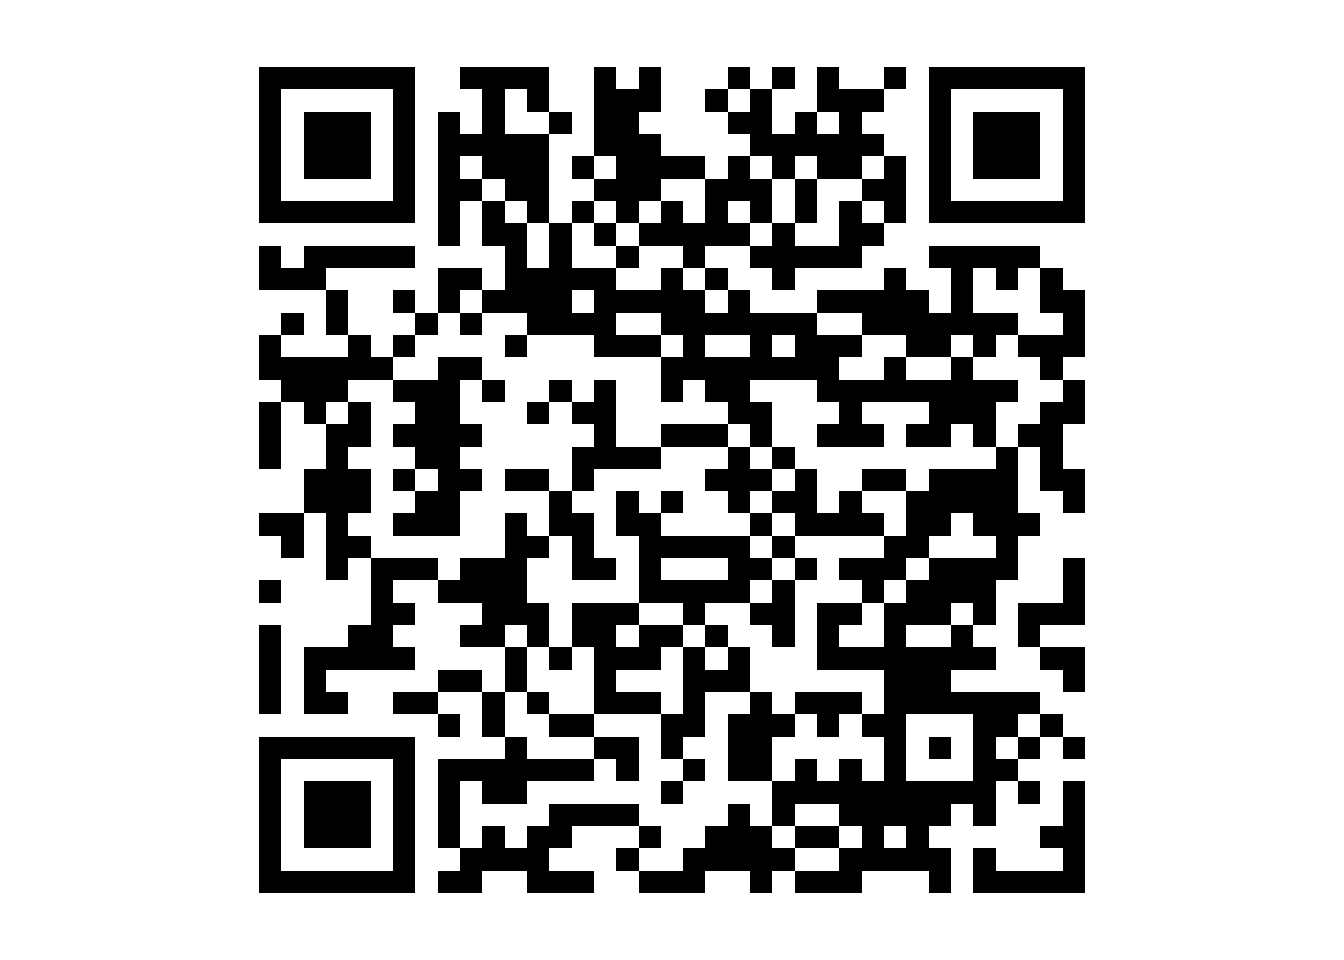
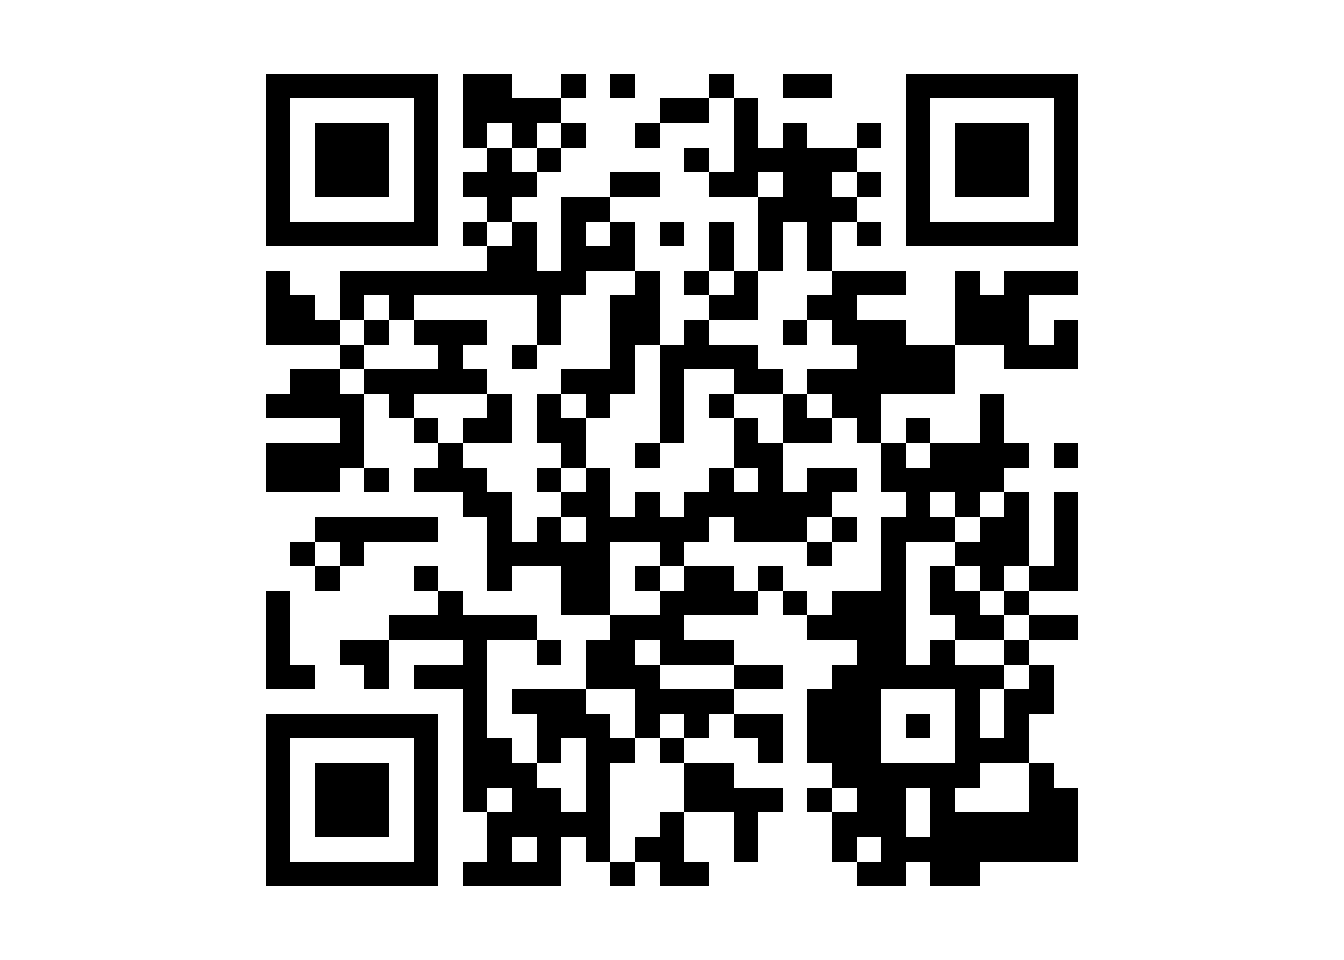
update blog qrcode

Changed region(s): [[0.1875, 0.0625, 0.8125, 0.9375]]

diff --git a/blog/2024-05-r-emacs/index.html b/blog/2024-05-r-emacs/index.html
@@ -9,7 +9,7 @@
 <meta http-equiv="X-UA-Compatible" content="IE=edge,chrome=1">
 <meta name="viewport" content="width=device-width, initial-scale=1, shrink-to-fit=no">
 <meta name="generator" content="Hugo 0.130.0">
-<title>R no Emacs | Maurício Vancine</title>
+<title>Positron | Maurício Vancine</title>
 
 
 <meta property="twitter:site" content="@mauriciovancine">
@@ -24,12 +24,12 @@
   
     
   
-<meta name="description" content="Configuração e uso do R no Emacs">
+<meta name="description" content="Nova IDE para R e Python">
 
 
 <meta property="og:site_name" content="Maurício Vancine">
-<meta property="og:title" content="R no Emacs | Maurício Vancine">
-<meta property="og:description" content="Configuração e uso do R no Emacs" />
+<meta property="og:title" content="Positron | Maurício Vancine">
+<meta property="og:description" content="Nova IDE para R e Python" />
 <meta property="og:type" content="page" />
 <meta property="og:url" content="http://localhost:4321/blog/2024-05-r-emacs/" />
 <meta property="og:locale" content="pt-br">
@@ -38,17 +38,18 @@
 
 
     
-        <meta property="og:image" content="http://localhost:4321/blog/sidebar.jpg" >
+        <meta property="og:image" content="http://localhost:4321/blog/2024-05-r-emacs/featured.png" >
         <meta property="twitter:card" content="summary_large_image">
-        <meta name="twitter:image" content="http://localhost:4321/blog/sidebar.jpg" >
+        <meta name="twitter:image" content="http://localhost:4321/blog/2024-05-r-emacs/featured.png" >
     
     
   
-  <meta itemprop="name" content="R no Emacs">
-  <meta itemprop="description" content="Configuração e uso do R no Emacs">
+  <meta itemprop="name" content="Positron">
+  <meta itemprop="description" content="Nova IDE para R e Python">
   <meta itemprop="datePublished" content="2024-05-01T00:00:00+00:00">
   <meta itemprop="dateModified" content="2024-05-01T00:00:00+00:00">
-  <meta itemprop="wordCount" content="20">
+  <meta itemprop="wordCount" content="5">
+  <meta itemprop="image" content="http://localhost:4321/blog/2024-05-r-emacs/featured.png">
   <meta itemprop="keywords" content="R,Emacs">
   
   
@@ -125,8 +126,8 @@
   <section class="page-content mw7 center">
     <article class="post-content pa0 pr3-l">
       <header class="post-header">
-        <h1 class="f1 lh-solid measure-narrow mb3 fw4">R no Emacs</h1>
-        <h4 class="f4 mt0 mb4 lh-title measure">Configuração e uso do R no Emacs</h4>
+        <h1 class="f1 lh-solid measure-narrow mb3 fw4">Positron</h1>
+        <h4 class="f4 mt0 mb4 lh-title measure">Nova IDE para R e Python</h4>
         <p class="f6 measure lh-copy mv1">By Maurício Vancine in <a href="http://localhost:4321/categories/blog">Blog</a> </p>
         <p class="f7 db mv0 ttu">May 1, 2024</p>
       </header>
@@ -145,8 +146,8 @@
 
 
 
-<h2 id="emacs">Emacs
-  <a href="#emacs"><svg class="anchor-symbol" aria-hidden="true" height="26" width="26" viewBox="0 0 22 22" xmlns="http://www.w3.org/2000/svg">
+<h2 id="positron">Positron
+  <a href="#positron"><svg class="anchor-symbol" aria-hidden="true" height="26" width="26" viewBox="0 0 22 22" xmlns="http://www.w3.org/2000/svg">
       <path d="M0 0h24v24H0z" fill="currentColor"></path>
       <path d="M3.9 12c0-1.71 1.39-3.1 3.1-3.1h4V7H7c-2.76.0-5 2.24-5 5s2.24 5 5 5h4v-1.9H7c-1.71.0-3.1-1.39-3.1-3.1zM8 13h8v-2H8v2zm9-6h-4v1.9h4c1.71.0 3.1 1.39 3.1 3.1s-1.39 3.1-3.1 3.1h-4V17h4c2.76.0 5-2.24 5-5s-2.24-5-5-5z"></path>
     </svg></a>
@@ -155,42 +156,14 @@
 
 
 
-<h2 id="r-no-emacs">R no Emacs
-  <a href="#r-no-emacs"><svg class="anchor-symbol" aria-hidden="true" height="26" width="26" viewBox="0 0 22 22" xmlns="http://www.w3.org/2000/svg">
+<h2 id="saber-mais">Saber mais
+  <a href="#saber-mais"><svg class="anchor-symbol" aria-hidden="true" height="26" width="26" viewBox="0 0 22 22" xmlns="http://www.w3.org/2000/svg">
       <path d="M0 0h24v24H0z" fill="currentColor"></path>
       <path d="M3.9 12c0-1.71 1.39-3.1 3.1-3.1h4V7H7c-2.76.0-5 2.24-5 5s2.24 5 5 5h4v-1.9H7c-1.71.0-3.1-1.39-3.1-3.1zM8 13h8v-2H8v2zm9-6h-4v1.9h4c1.71.0 3.1 1.39 3.1 3.1s-1.39 3.1-3.1 3.1h-4V17h4c2.76.0 5-2.24 5-5s-2.24-5-5-5z"></path>
     </svg></a>
 </h2>
 <p>
-<a href="https://guangchuangyu.github.io/2013/11/run-remote-r-in-emacs-with-ess/" target="_blank" rel="noopener">https://guangchuangyu.github.io/2013/11/run-remote-r-in-emacs-with-ess/</a>
-
-<a href="https://plantarum.ca/2020/06/16/emacs-tutorial-01/" target="_blank" rel="noopener">https://plantarum.ca/2020/06/16/emacs-tutorial-01/</a>
-
-<a href="https://plantarum.ca/2020/06/17/emacs-tutorial-02/" target="_blank" rel="noopener">https://plantarum.ca/2020/06/17/emacs-tutorial-02/</a>
-
-<a href="https://plantarum.ca/tutorials/emacs-tutorial-03/" target="_blank" rel="noopener">https://plantarum.ca/tutorials/emacs-tutorial-03/</a>
-
-<a href="https://opensource.com/article/20/5/r-emacs-data-science" target="_blank" rel="noopener">https://opensource.com/article/20/5/r-emacs-data-science</a>
-
-<a href="https://ess.r-project.org/index.php?Section=home" target="_blank" rel="noopener">https://ess.r-project.org/index.php?Section=home</a>
-
-<a href="https://www.youtube.com/watch?v=M9jNksn3pNM" target="_blank" rel="noopener">https://www.youtube.com/watch?v=M9jNksn3pNM</a>
-
-<a href="https://confunguido.github.io/blog/20190317_emacs_for_R.html" target="_blank" rel="noopener">https://confunguido.github.io/blog/20190317_emacs_for_R.html</a>
-
-<a href="http://www.jesshamrick.com/2012/09/10/absolute-beginners-guide-to-emacs/" target="_blank" rel="noopener">http://www.jesshamrick.com/2012/09/10/absolute-beginners-guide-to-emacs/</a>
-
-<a href="https://www.gnu.org/savannah-checkouts/gnu/emacs/emacs.html" target="_blank" rel="noopener">https://www.gnu.org/savannah-checkouts/gnu/emacs/emacs.html</a>
-
-<a href="https://www2.stat.duke.edu/courses/Spring09/sta244/computing/R-ESS.html" target="_blank" rel="noopener">https://www2.stat.duke.edu/courses/Spring09/sta244/computing/R-ESS.html</a>
-
-<a href="https://www.r-bloggers.com/2018/06/using-r-with-emacs-and-ess/" target="_blank" rel="noopener">https://www.r-bloggers.com/2018/06/using-r-with-emacs-and-ess/</a>
-
-<a href="https://www.youtube.com/watch?v=So1LYzSk9o0" target="_blank" rel="noopener">https://www.youtube.com/watch?v=So1LYzSk9o0</a>
-
-<a href="https://gist.github.com/davebraze/ff95762bea2868f52942c0bb2d247b29" target="_blank" rel="noopener">https://gist.github.com/davebraze/ff95762bea2868f52942c0bb2d247b29</a>
-
-<a href="https://www.youtube.com/playlist?list=PLwc48KSH3D1Onsed66FPLywMSIQmAhUYJ" target="_blank" rel="noopener">https://www.youtube.com/playlist?list=PLwc48KSH3D1Onsed66FPLywMSIQmAhUYJ</a></p>
+<a href="https://www.appsilon.com/post/introducing-positron" target="_blank" rel="noopener">https://www.appsilon.com/post/introducing-positron</a></p>
 
       </section>
       <footer class="post-footer">
@@ -198,7 +171,7 @@
   
   
     <a class="prev dtc pr2 tl v-top fw6"
-    href="http://localhost:4321/blog/2024-05-r-emacs/">&larr; R no Emacs</a>
+    href="http://localhost:4321/blog/2024-06-r-reinstall-packages/">&larr; Reinstalar pacotes depois de atualizar o R</a>
   
   
   
@@ -268,7 +241,7 @@
   </dl>
   <dl class="f6 lh-copy">
     <dt class="fw7">Length:</dt>
-    <dd class="fw5 ml0">1 minute read, 20 words</dd>
+    <dd class="fw5 ml0">1 minute read, 5 words</dd>
   </dl>
   
   <dl class="f6 lh-copy">

diff --git a/blog/2024-11-r-qrcode/index.html b/blog/2024-11-r-qrcode/index.html
@@ -192,7 +192,7 @@
 <div class="highlight"><pre tabindex="0" style="color:#93a1a1;background-color:#002b36;-moz-tab-size:4;-o-tab-size:4;tab-size:4;"><code class="language-r" data-lang="r"><span style="display:flex;"><span><span style="color:#268bd2">plot</span>(code)
 </span></span></code></pre></div><img src="https://mauriciovancine.github.io/blog/2024-11-r-qrcode/index_files/figure-html/unnamed-chunk-2-1.png" width="672" />
 <p>Podemos adicionar uma URL ao QR code.</p>
-<div class="highlight"><pre tabindex="0" style="color:#93a1a1;background-color:#002b36;-moz-tab-size:4;-o-tab-size:4;tab-size:4;"><code class="language-r" data-lang="r"><span style="display:flex;"><span>url <span style="color:#719e07">&lt;-</span> <span style="color:#2aa198">&#34;https://mauriciovancine.github.io/blog/2024-10-eco-dados-biodiversidade/&#34;</span>
+<div class="highlight"><pre tabindex="0" style="color:#93a1a1;background-color:#002b36;-moz-tab-size:4;-o-tab-size:4;tab-size:4;"><code class="language-r" data-lang="r"><span style="display:flex;"><span>url <span style="color:#719e07">&lt;-</span> <span style="color:#2aa198">&#34;https://mauriciovancine.github.io/blog/2024-11-r-qrcode/&#34;</span>
 </span></span><span style="display:flex;"><span>code <span style="color:#719e07">&lt;-</span> qrcode<span style="color:#719e07">::</span><span style="color:#268bd2">qr_code</span>(url, ecl <span style="color:#719e07">=</span> <span style="color:#2aa198">&#34;M&#34;</span>)
 </span></span><span style="display:flex;"><span><span style="color:#268bd2">plot</span>(code)
 </span></span></code></pre></div><img src="https://mauriciovancine.github.io/blog/2024-11-r-qrcode/index_files/figure-html/unnamed-chunk-3-1.png" width="672" />

diff --git a/blog/index.html b/blog/index.html
@@ -365,32 +365,19 @@
 
   
   
-  
-  <div class="flex flex-column mb4 mb5-l  flex-row-reverse-ns">
-    <figure class="ml4-ns ma0 mb2 mb0-l w-100 w-40-ns">
-      <a href="/blog/2022-07-eco-espa-distancia-ponto-linha/" class="db">
-        
-          <img src="https://mauriciovancine.github.io/blog/2022-07-eco-espa-distancia-ponto-linha/featured.jpg" class="db ma0 dim" alt="">
-        
-      </a>
-    </figure>
-    <div class="flex flex-column w-100 w-60-ns pl3-ns">
-      <header class="w-100">
-        <h1 class="f3 mv2 lh-title underline"><a href="/blog/2022-07-eco-espa-distancia-ponto-linha/" class="db">Distância de pontos a linhas</a></h1>
-        
-      </header>
+  <div class="measure-wide center mb4 mb5-l">
+    <header>
+      <h1 class="f3 mt0 mb2 lh-title underline fw4"><a href="/blog/2022-07-eco-espa-distancia-ponto-linha/" class="db">Distância de pontos a linhas</a></h1>
       
-      <p class="f6 lh-copy mv2 flex-auto">Cálculo da distância de pontos a linhas no R e no QGIS</p>
-      <footer class="w-100">
+    </header>
+      
+      <p class="lh-copy mb4">Cálculo da distância de pontos a linhas no R e no QGIS</p>
+    <footer>
       
       
-      <p class="f7 db mv1">July 10, 2022</p>
       
     </footer>
-    </div>
   </div>
-
-  
   
 </article>
 

diff --git a/blog/2023-07-eco-div-beta/index.html b/blog/2023-07-eco-div-beta/index.html
@@ -161,12 +161,12 @@
   
   
     <a class="prev dtc pr2 tl v-top fw6"
-    href="http://localhost:4321/blog/2023-07-eco-pai-hanski/">&larr; Conectividade: métrica de Hanski</a>
+    href="http://localhost:4321/blog/2023-07-eco-div-beta/">&larr; Diversidade beta: o que eu consegui entender até agora...</a>
   
   
   
     <a class="next dtc pl2 tr v-top fw6"
-    href="http://localhost:4321/blog/2023-07-eco-div-beta/">Diversidade beta: o que eu consegui entender até agora... &rarr;</a>
+    href="http://localhost:4321/blog/2023-07-eco-espa-div-beta/">Espacializando a diversidade beta &rarr;</a>
   
 </div>
 
@@ -253,7 +253,7 @@
     
     <dd class="fw5 ml0"><a href="/blog/2025-07-eco-espa-div-beta/">Kernel</a></dd>
     
-    <dd class="fw5 ml0"><a href="/blog/2024-09-r-color-pallets/">Paletas de cores no R</a></dd>
+    <dd class="fw5 ml0"><a href="/blog/2024-11-r-qrcode/">Gerando QR code no R</a></dd>
     
   </dl>
 </details>

diff --git a/tags/emacs/index.html b/tags/emacs/index.html
@@ -278,31 +278,6 @@
 </article>
 
   
-    
-                               
-     
-     
-<article class="mv4 mv5-l bb">
-
-  
-  
-  <div class="measure-wide center mb4 mb5-l">
-    <header>
-      <h1 class="f3 mt0 mb2 lh-title underline fw4"><a href="/blog/2024-05-r-emacs/" class="db">Positron</a></h1>
-      
-    </header>
-      
-      <p class="lh-copy mb4">Nova IDE para R e Python</p>
-    <footer>
-      
-      
-      
-    </footer>
-  </div>
-  
-</article>
-
-  
   </section>
 </main>
 <footer class="site-footer pv4 bt b--transparent ph5" role="contentinfo">

diff --git a/blog/2028-08-r-big-data/index.html b/blog/2028-08-r-big-data/index.html
@@ -264,9 +264,9 @@
     
     <dd class="fw5 ml0"><a href="/blog/2025-07-eco-espa-div-beta/">Kernel</a></dd>
     
-    <dd class="fw5 ml0"><a href="/blog/2024-09-r-color-pallets/">Paletas de cores no R</a></dd>
+    <dd class="fw5 ml0"><a href="/blog/2024-11-r-qrcode/">Gerando QR code no R</a></dd>
     
-    <dd class="fw5 ml0"><a href="/blog/2024-08-r-big-data/">Big Data no R: como ler um conjunto de dados maior que a RAM</a></dd>
+    <dd class="fw5 ml0"><a href="/blog/2024-09-r-color-pallets/">Paletas de cores no R</a></dd>
     
   </dl>
 </details>

diff --git a/blog/2025-07-eco-espa-div-beta/index.html b/blog/2025-07-eco-espa-div-beta/index.html
@@ -234,9 +234,9 @@
     
     <dd class="fw5 ml0"><a href="/blog/2028-08-r-big-data/">QGIS: plugins</a></dd>
     
-    <dd class="fw5 ml0"><a href="/blog/2024-09-r-color-pallets/">Paletas de cores no R</a></dd>
+    <dd class="fw5 ml0"><a href="/blog/2024-11-r-qrcode/">Gerando QR code no R</a></dd>
     
-    <dd class="fw5 ml0"><a href="/blog/2024-08-eco-pai-metricas-qgis/">Métricas de paisagem: morfologia da paisagem</a></dd>
+    <dd class="fw5 ml0"><a href="/blog/2024-09-r-color-pallets/">Paletas de cores no R</a></dd>
     
   </dl>
 </details>

diff --git a/blog/2023-07-eco-espa-autocorrelacao/index.html b/blog/2023-07-eco-espa-autocorrelacao/index.html
@@ -251,7 +251,7 @@ https://rpubs.com/melinatarituba/268058">
     
     <dd class="fw5 ml0"><a href="/blog/2025-07-eco-espa-div-beta/">Kernel</a></dd>
     
-    <dd class="fw5 ml0"><a href="/blog/2024-09-r-color-pallets/">Paletas de cores no R</a></dd>
+    <dd class="fw5 ml0"><a href="/blog/2024-11-r-qrcode/">Gerando QR code no R</a></dd>
     
   </dl>
 </details>

diff --git a/blog/2021-03-geo-join-rasterize/index.html b/blog/2021-03-geo-join-rasterize/index.html
@@ -466,7 +466,7 @@
     
     <dd class="fw5 ml0"><a href="/blog/2025-07-eco-espa-div-beta/">Kernel</a></dd>
     
-    <dd class="fw5 ml0"><a href="/blog/2024-09-r-color-pallets/">Paletas de cores no R</a></dd>
+    <dd class="fw5 ml0"><a href="/blog/2024-11-r-qrcode/">Gerando QR code no R</a></dd>
     
   </dl>
 </details>

diff --git a/blog/2023-07-eco-espa-div-beta/index.html b/blog/2023-07-eco-espa-div-beta/index.html
@@ -236,7 +236,7 @@
     
     <dd class="fw5 ml0"><a href="/blog/2025-07-eco-espa-div-beta/">Kernel</a></dd>
     
-    <dd class="fw5 ml0"><a href="/blog/2024-09-r-color-pallets/">Paletas de cores no R</a></dd>
+    <dd class="fw5 ml0"><a href="/blog/2024-11-r-qrcode/">Gerando QR code no R</a></dd>
     
   </dl>
 </details>

diff --git a/blog/2023-07-eco-pai-grafos/index.html b/blog/2023-07-eco-pai-grafos/index.html
@@ -252,7 +252,7 @@
     
     <dd class="fw5 ml0"><a href="/blog/2025-07-eco-espa-div-beta/">Kernel</a></dd>
     
-    <dd class="fw5 ml0"><a href="/blog/2024-09-r-color-pallets/">Paletas de cores no R</a></dd>
+    <dd class="fw5 ml0"><a href="/blog/2024-11-r-qrcode/">Gerando QR code no R</a></dd>
     
   </dl>
 </details>

diff --git a/blog/2023-07-eco-pai-hanski/index.html b/blog/2023-07-eco-pai-hanski/index.html
@@ -253,7 +253,7 @@
     
     <dd class="fw5 ml0"><a href="/blog/2025-07-eco-espa-div-beta/">Kernel</a></dd>
     
-    <dd class="fw5 ml0"><a href="/blog/2024-09-r-color-pallets/">Paletas de cores no R</a></dd>
+    <dd class="fw5 ml0"><a href="/blog/2024-11-r-qrcode/">Gerando QR code no R</a></dd>
     
   </dl>
 </details>
